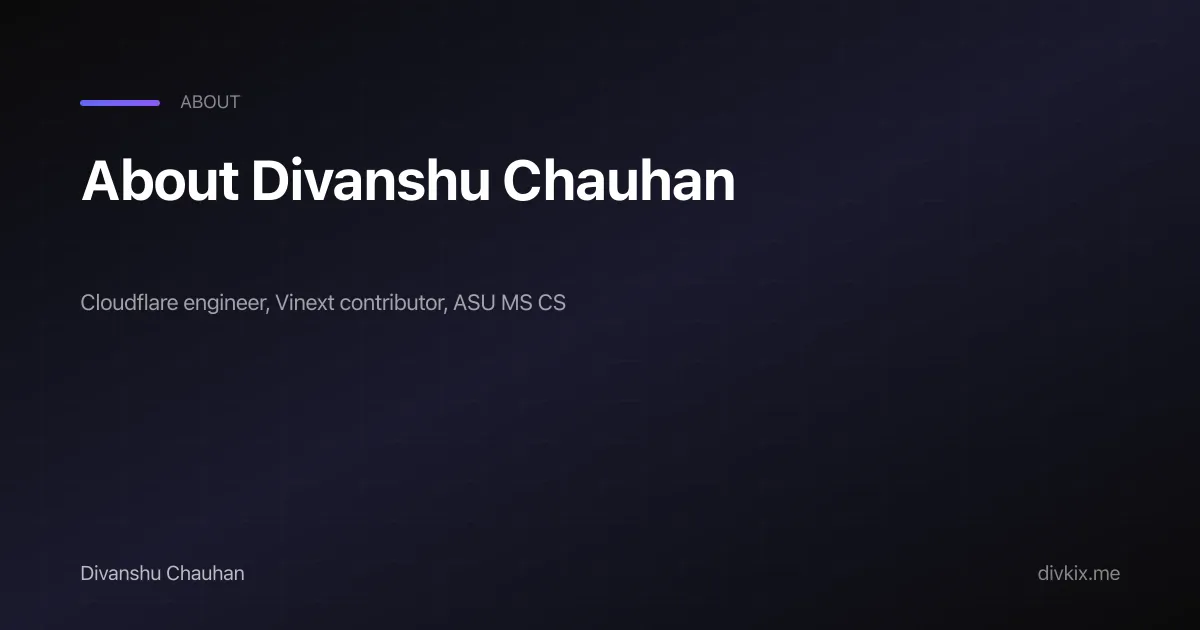
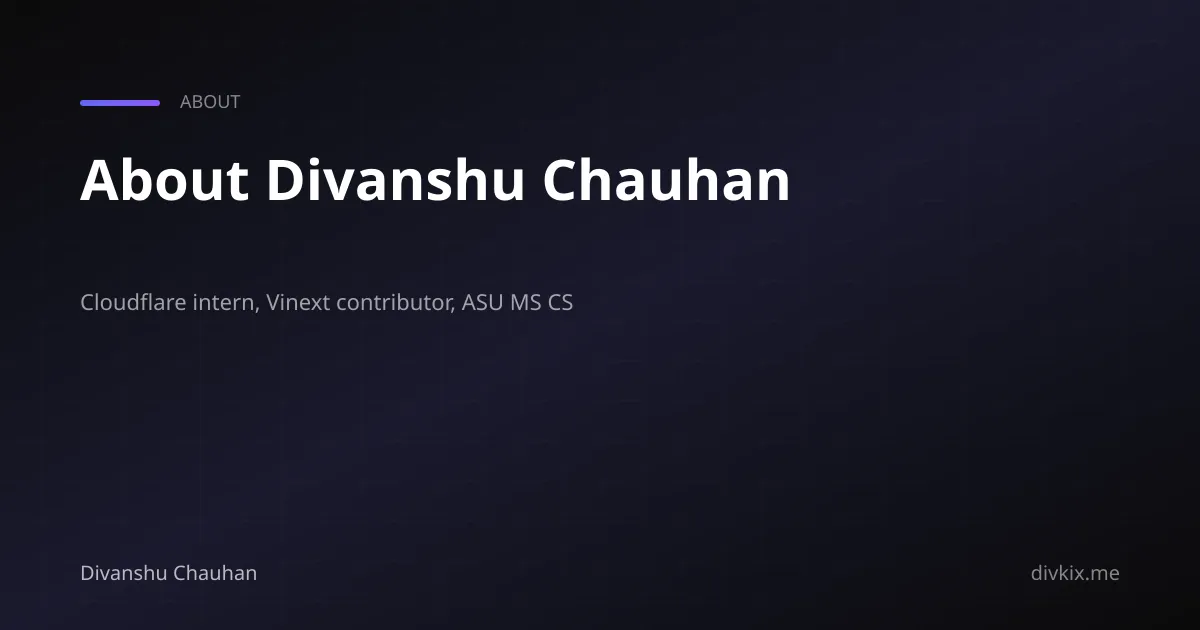
fix(copy): intern role and current open-to-work status
Stop presenting Divanshu as a full-time Cloudflare software engineer.
Hero, titles, meta, JSON-LD, FAQ, llms.txt, and OG images now say
software engineer intern and currently open to full-time roles.

diff --git a/src/data/site.config.ts b/src/data/site.config.ts
@@ -2,13 +2,13 @@ export const siteConfig = {
   name: "Divanshu Chauhan",
   handle: "Divkix",
   tagline:
-    "Software engineer at Cloudflare. MS in Computer Science from Arizona State (GPA 3.889). I ship side projects people actually use.",
+    "Software engineer intern at Cloudflare. MS in Computer Science from Arizona State (GPA 3.889). I ship side projects people actually use.",
   location: "Tempe, Arizona, USA",
   email: "divkix@divkix.me",
   about:
     "I'm Divanshu. I finished my MS in Computer Science at Arizona State University in May 2026 with a 3.889 GPA, and I intern on Cloudflare's ETI team. The side of my work I care about most is the projects people open every day: a Telegram bot now serving 300,000+ users, a self-hosted logging tool I built because Datadog priced me out, and a class tracker I made for ASU students who were tired of refreshing the registrar at midnight. I also contribute to Vinext, Cloudflare's open-source way of running Next.js apps on Vite. I spent two years tutoring eight CS courses at ASU, which is a humbling way to learn that you don't really understand something until you can explain it to someone who is stuck.",
   heroSummary:
-    "Software engineer at Cloudflare. MS in Computer Science from ASU. I build edge infrastructure by day and side projects people actually open at night.",
+    "Software engineer intern at Cloudflare. MS in Computer Science from ASU. I build edge infrastructure by day and side projects people actually open at night. Currently open to full-time backend, infrastructure, developer tools, and AI platform roles.",
   heroProof:
     "Alita Robot serves 300k+ Telegram users. I contribute to Vinext, Cloudflare's open-source Next.js-on-Workers stack.",
   founderPov:
@@ -24,10 +24,15 @@ export const siteConfig = {
   },
 
   seo: {
-    jobTitle: "Software Engineer",
+    jobTitle: "Software Engineer Intern",
+    defaultTitle:
+      "Divanshu Chauhan — Software engineer intern at Cloudflare, Vinext contributor",
     metaDescription:
-      "Divanshu Chauhan (divkix) is a software engineer at Cloudflare and a Vinext contributor with an MS in Computer Science from Arizona State (GPA 3.889).",
+      "Divanshu Chauhan (divkix) is a software engineer intern at Cloudflare and a Vinext contributor, currently open to full-time SWE roles.",
   },
+
+  openToWork:
+    "Currently open to full-time software engineering roles: backend, infrastructure, developer tools, AI platforms. Open to relocation. Remote-friendly.",
 
   /** Compact homepage proof points — outcomes, not skill tags */
   proofPoints: [
@@ -48,7 +53,7 @@ export const siteConfig = {
   faq: [
     {
       q: "Who is Divanshu Chauhan?",
-      a: "Divanshu Chauhan (divkix) is a software engineer at Cloudflare with an MS in Computer Science from Arizona State University (GPA 3.889, completed May 2026). He builds production tools like LogWell, Clickfolio, and Alita Robot, contributes to Cloudflare Vinext, and writes about developer tools and edge computing on divkix.me.",
+      a: "Divanshu Chauhan (divkix) is a software engineer intern at Cloudflare with an MS in Computer Science from Arizona State University (GPA 3.889, completed May 2026). He is currently open to full-time backend, infrastructure, developer tools, and AI platform roles. He builds production tools like LogWell, Clickfolio, and Alita Robot, contributes to Cloudflare Vinext, and writes about developer tools and edge computing on divkix.me.",
     },
     {
       q: "What is Divanshu Chauhan's education?",

diff --git a/scripts/seo-production-audit.ts b/scripts/seo-production-audit.ts
@@ -89,6 +89,32 @@ assert(
   "LLM discovery metadata should reflect current Cloudflare role and full-time SWE search.",
 );
 assert(
+  astroConfig.includes("Currently open to full-time SWE") &&
+    !astroConfig.includes("starting May") &&
+    !astroConfig.includes("starting May/June"),
+  "LLM discovery metadata should describe the full-time search in present tense, not a past start date.",
+);
+const siteConfigSource = read("src/data/site.config.ts");
+assert(
+  siteConfigSource.includes('jobTitle: "Software Engineer Intern"'),
+  "JSON-LD jobTitle should be Software Engineer Intern, not a full-time Software Engineer title.",
+);
+assert(
+  !/software engineer at Cloudflare/i.test(siteConfigSource) &&
+    !/Software engineer at Cloudflare/.test(
+      read("src/layouts/BaseLayout.astro"),
+    ) &&
+    !/Software engineer at Cloudflare/.test(
+      read("src/layouts/SiteLayout.astro"),
+    ),
+  "Public copy should not present Divanshu as a full-time software engineer at Cloudflare.",
+);
+assert(
+  !read("src/pages/about.astro").includes("starting May 2026") &&
+    siteConfigSource.includes("Currently open to full-time"),
+  "Open-to-work copy should be present tense, with no leftover starting May 2026.",
+);
+assert(
   astroConfig.includes('trailingSlash: "never"'),
   'astro.config.mjs should keep trailingSlash: "never" for canonical URLs.',
 );
@@ -146,7 +172,7 @@ assert(
 );
 assert(
   clipMetaDescription(
-    "Divanshu Chauhan (divkix) is a software engineer at Cloudflare and a Vinext contributor with an MS in Computer Science from Arizona State (GPA 3.889). He builds LogWell, Clickfolio, and Alita Robot, a Telegram bot used by 300,000+ people, and writes about edge computing, developer tools, and shipping side projects.",
+    "Divanshu Chauhan (divkix) is a software engineer intern at Cloudflare and a Vinext contributor, currently open to full-time SWE roles. He builds LogWell, Clickfolio, and Alita Robot, a Telegram bot used by 300,000+ people, and writes about edge computing, developer tools, and shipping side projects.",
   ).length <= META_DESCRIPTION_MAX,
   "clipMetaDescription should keep meta descriptions at ~160 characters.",
 );

diff --git a/scripts/generate-og-images.js b/scripts/generate-og-images.js
@@ -286,13 +286,13 @@ async function generateStaticPageOGImages() {
     {
       slug: "about",
       title: "About Divanshu Chauhan",
-      description: "Cloudflare engineer, Vinext contributor, ASU MS CS",
+      description: "Cloudflare intern, Vinext contributor, ASU MS CS",
       label: "About",
     },
     {
       slug: "resume",
       title: "Resume | Divanshu Chauhan",
-      description: "Software Engineer & Builder",
+      description: "Software Engineer Intern, open to work",
       label: "Resume",
     },
     {
@@ -304,7 +304,7 @@ async function generateStaticPageOGImages() {
     {
       slug: "divkix",
       title: "divkix | Divanshu Chauhan",
-      description: "Software Engineer & Open Source Contributor",
+      description: "Software Engineer Intern & Open Source Contributor",
       label: "Profile",
     },
     {
@@ -372,8 +372,8 @@ async function generateStaticPageOGImages() {
     try {
       const homeSvg = generateStaticPageSvg({
         slug: "home",
-        title: "Divanshu Chauhan — Software Engineer & Builder",
-        description: "Cloudflare engineer, Vinext contributor, ASU MS CS",
+        title: "Divanshu Chauhan — Software Engineer Intern & Builder",
+        description: "Cloudflare intern, Vinext contributor, ASU MS CS",
         label: "Home",
       });
       await sharp(Buffer.from(homeSvg))

diff --git a/src/components/sections/Contact.tsx b/src/components/sections/Contact.tsx
@@ -100,7 +100,7 @@ function Contact() {
         <div className="min-w-0 space-y-(--space-md)">
           <SectionHeading
             title="Say hello"
-            description="Open to full-time software engineering roles — backend, infrastructure, developer tools, AI platforms. Also happy to talk side projects, Cloudflare Workers, or something you're stuck on."
+            description="Currently open to full-time software engineering roles — backend, infrastructure, developer tools, AI platforms. Also happy to talk side projects, Cloudflare Workers, or something you're stuck on."
           />
 
           <p className="text-sm text-muted-foreground leading-relaxed max-w-prose">

diff --git a/src/lib/schema.ts b/src/lib/schema.ts
@@ -36,7 +36,7 @@ export function generatePersonSchema() {
     description: siteConfig.seo.metaDescription,
     url: baseUrl,
     mainEntityOfPage: `${baseUrl}/about`,
-    disambiguatingDescription: `Software Engineer and blogger based in ${siteConfig.address.locality}, ${siteConfig.address.region}`,
+    disambiguatingDescription: `Software Engineer Intern at Cloudflare and blogger based in ${siteConfig.address.locality}, ${siteConfig.address.region}`,
     email: siteConfig.email,
     image: `${baseUrl}/divanshu-chauhan.webp`,
     nationality: siteConfig.nationality,
